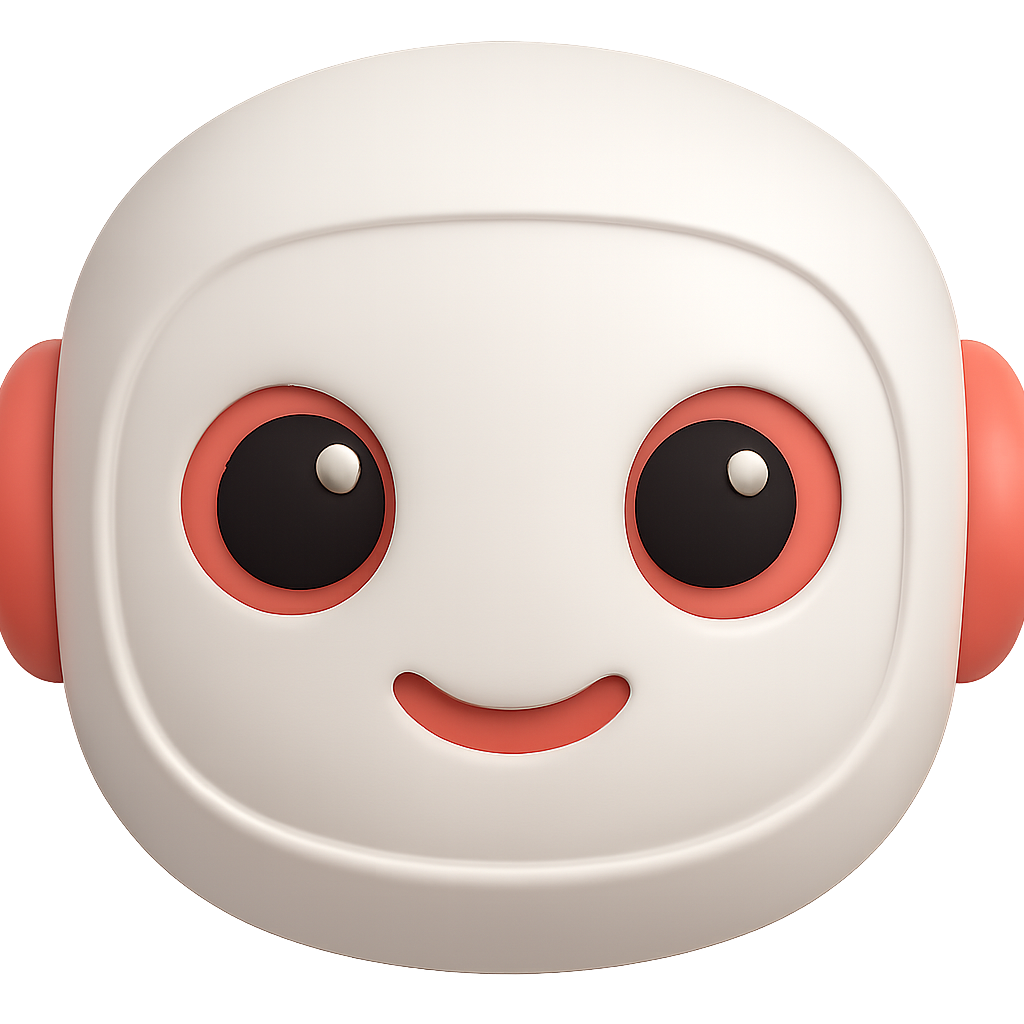
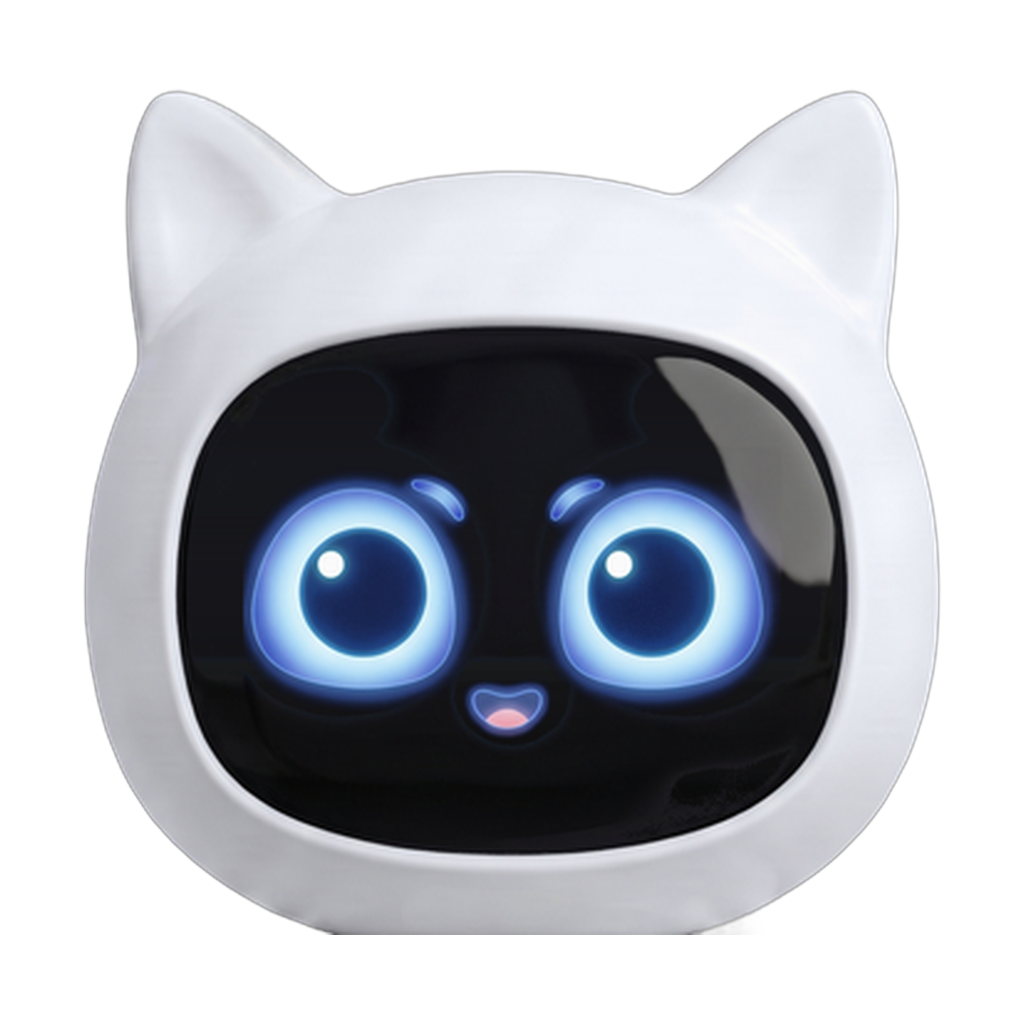
feat(mascot): black-face alive robot is the one true TeeBot (assets + Robot component)
- tee-head/tee-body/tee-icon replaced in place with the white cat-eared
  robot with the black LCD face (user pick 2026-07-04, supersedes K2
  ceramic-inset). Master art: TbotREAL docs/lesson-library/assets/
  robot-alive/poses (8 transparent 515x768 poses).
- Robot component now renders one photographic pose per emotion
  (idle/wave/celebrate/listening/teach/thinking/cards/side) instead of
  the drawn SVG robot; keeps emotion/size/reduceMotion API, Reanimated
  bob/tilt body motion, glow, and zzz.
- Level/Unit screens vary their emotion so adjacent pages show
  different poses.
- App icon set (all 12 sizes), brand logo, legacy design-reference
  robot-head/map-robot, and course-tile robot-coding regenerated from
  the same art, centered by alpha-thresholded bbox (>24) — raw getbbox
  centered stray invisible pixels and pushed the head bottom-right.

diff --git a/src/design-system/components/Robot/index.tsx b/src/design-system/components/Robot/index.tsx
@@ -1,5 +1,5 @@
 import React, { useEffect } from 'react';
-import { StyleSheet, View } from 'react-native';
+import { type ImageSourcePropType, View } from 'react-native';
 import Animated, {
   useSharedValue,
   useAnimatedStyle,
@@ -8,7 +8,6 @@ import Animated, {
   withTiming,
   Easing,
 } from 'react-native-reanimated';
-import Svg, { Path } from 'react-native-svg';
 import { tokens } from '@/design-system/tokens';
 import { Text } from '@/design-system/primitives/Text';
 
@@ -22,32 +21,39 @@ type RobotEmotion = typeof ROBOT_EMOTES[number];
 interface RobotConfig {
   bodyAnim: 'bob' | 'bobStrong' | 'tilt' | 'think' | 'none';
   bobDuration?: number;
-  mouth: 'smile-soft' | 'smile' | 'open-smile' | 'tiny' | 'talk' | 'big-smile' | 'tiny-o' | 'frown-soft' | 'flat';
-  eyes: 'open' | 'up' | 'happy' | 'gentle' | 'curious' | 'closed';
-  cheek: boolean;
-  antennaAnim: boolean;
-  antennaDuration?: number;
   glow: 'on' | 'soft' | 'off';
-  wave?: boolean;
-  dots?: boolean;
-  sparks?: boolean;
   zzz?: boolean;
-  ear?: boolean;
+  pose: ImageSourcePropType;
 }
 
+// The white cat-eared TeeBot with the black LCD face (source of truth per
+// 2026-07-04 direction; master art lives in TbotREAL
+// docs/lesson-library/assets/robot-alive/poses). One photographic pose per
+// emotion so different screens naturally show different robot pictures.
+const POSES = {
+  idle: require('../../../assets/mascot/alive-idle.png') as ImageSourcePropType,
+  wave: require('../../../assets/mascot/alive-wave.png') as ImageSourcePropType,
+  celebrate: require('../../../assets/mascot/alive-celebrate.png') as ImageSourcePropType,
+  listening: require('../../../assets/mascot/alive-listening.png') as ImageSourcePropType,
+  teach: require('../../../assets/mascot/alive-teach.png') as ImageSourcePropType,
+  thinking: require('../../../assets/mascot/alive-thinking.png') as ImageSourcePropType,
+  cards: require('../../../assets/mascot/alive-cards.png') as ImageSourcePropType,
+  side: require('../../../assets/mascot/alive-side.png') as ImageSourcePropType,
+} as const;
+
 const CONFIGS: Record<RobotEmotion, RobotConfig> = {
-  idle:    { bodyAnim: 'bob',       bobDuration: 3600, mouth: 'smile-soft', eyes: 'open',    cheek: true,  antennaAnim: false,                           glow: 'soft' },
-  happy:   { bodyAnim: 'bob',       bobDuration: 2400, mouth: 'smile',      eyes: 'open',    cheek: true,  antennaAnim: true,  antennaDuration: 2000,    glow: 'soft' },
-  greet:   { bodyAnim: 'bobStrong',                    mouth: 'open-smile', eyes: 'open',    cheek: true,  antennaAnim: true,  antennaDuration: 1400,    glow: 'on',   wave: true },
-  listen:  { bodyAnim: 'tilt',                         mouth: 'tiny',       eyes: 'open',    cheek: false, antennaAnim: true,  antennaDuration: 1800,    glow: 'on',   ear: true },
-  think:   { bodyAnim: 'think',                        mouth: 'tiny',       eyes: 'up',      cheek: false, antennaAnim: false,                           glow: 'on',   dots: true },
-  speak:   { bodyAnim: 'bob',       bobDuration: 2000, mouth: 'talk',       eyes: 'open',    cheek: true,  antennaAnim: true,  antennaDuration: 1600,    glow: 'on' },
-  success: { bodyAnim: 'bobStrong',                    mouth: 'big-smile',  eyes: 'happy',   cheek: true,  antennaAnim: true,  antennaDuration: 800,     glow: 'on',   sparks: true },
-  gentle:  { bodyAnim: 'bob',       bobDuration: 3000, mouth: 'smile-soft', eyes: 'gentle',  cheek: true,  antennaAnim: false,                           glow: 'soft' },
-  curious: { bodyAnim: 'tilt',                         mouth: 'tiny-o',     eyes: 'curious', cheek: true,  antennaAnim: true,  antennaDuration: 2000,    glow: 'soft' },
-  sleep:   { bodyAnim: 'bob',       bobDuration: 5000, mouth: 'smile-soft', eyes: 'closed',  cheek: false, antennaAnim: false,                           glow: 'off',  zzz: true },
-  sad:     { bodyAnim: 'none',                         mouth: 'frown-soft', eyes: 'gentle',  cheek: false, antennaAnim: false,                           glow: 'off' },
-  worry:   { bodyAnim: 'tilt',                         mouth: 'flat',       eyes: 'gentle',  cheek: false, antennaAnim: false,                           glow: 'soft' },
+  idle:    { bodyAnim: 'bob',       bobDuration: 3600, glow: 'soft', pose: POSES.idle },
+  happy:   { bodyAnim: 'bob',       bobDuration: 2400, glow: 'soft', pose: POSES.celebrate },
+  greet:   { bodyAnim: 'bobStrong',                    glow: 'on',   pose: POSES.wave },
+  listen:  { bodyAnim: 'tilt',                         glow: 'on',   pose: POSES.listening },
+  think:   { bodyAnim: 'think',                        glow: 'on',   pose: POSES.thinking },
+  speak:   { bodyAnim: 'bob',       bobDuration: 2000, glow: 'on',   pose: POSES.teach },
+  success: { bodyAnim: 'bobStrong',                    glow: 'on',   pose: POSES.celebrate },
+  gentle:  { bodyAnim: 'bob',       bobDuration: 3000, glow: 'soft', pose: POSES.idle },
+  curious: { bodyAnim: 'tilt',                         glow: 'soft', pose: POSES.cards },
+  sleep:   { bodyAnim: 'bob',       bobDuration: 5000, glow: 'off',  pose: POSES.side, zzz: true },
+  sad:     { bodyAnim: 'none',                         glow: 'off',  pose: POSES.thinking },
+  worry:   { bodyAnim: 'tilt',                         glow: 'soft', pose: POSES.thinking },
 };
 
 interface RobotProps {
@@ -59,20 +65,15 @@ interface RobotProps {
   reduceMotion?: boolean;
 }
 
-export default function Robot({ emotion = 'idle', size = 220, color, accessibilityLabel, reduceMotion = false }: RobotProps) {
+export default function Robot({ emotion = 'idle', size = 220, accessibilityLabel, reduceMotion = false }: RobotProps) {
   const cfg = CONFIGS[emotion] ?? CONFIGS.idle;
   const W = size;
-  const bodyColor = color ?? tokens.colors.bot.body;
-  const bodyDark = tokens.colors.bot.body2;
-  // Brand consistency: the robot is always the coral TeeBot character. We ignore the
-  // per-screen `accent` prop so every screen shows one coral robot that matches the
-  // welcome hero (robot-head.png) instead of a different colour per screen.
+  // Brand consistency: every screen shows the one white cat-eared TeeBot, so
+  // the per-screen `accent`/`color` props only tint the ambient glow.
   const accentColor = tokens.colors.coral;
 
-  // Body animation
   const bodyY = useSharedValue(0);
   const bodyRotate = useSharedValue(0);
-  const antennaRotate = useSharedValue(0);
   const glowScale = useSharedValue(1);
   const glowOpacity = useSharedValue(cfg.glow === 'on' ? 0.45 : 0.25);
 
@@ -82,7 +83,6 @@ export default function Robot({ emotion = 'idle', size = 220, color, accessibili
 
     bodyY.value = 0;
     bodyRotate.value = 0;
-    antennaRotate.value = 0;
 
     if (reduceMotion) {
       glowOpacity.value = cfg.glow === 'on' ? 0.45 : 0.25;
@@ -116,14 +116,6 @@ export default function Robot({ emotion = 'idle', size = 220, color, accessibili
       ), -1, false);
     }
 
-    if (cfg.antennaAnim && cfg.antennaDuration) {
-      const aDur = cfg.antennaDuration;
-      antennaRotate.value = withRepeat(withSequence(
-        withTiming(-4, { duration: aDur / 2, easing: easeIO }),
-        withTiming(4, { duration: aDur / 2, easing: easeIO }),
-      ), -1, false);
-    }
-
     if (cfg.glow !== 'off') {
       const glowDur = cfg.glow === 'on' ? 2400 : 4000;
       glowScale.value = withRepeat(withSequence(
@@ -135,7 +127,7 @@ export default function Robot({ emotion = 'idle', size = 220, color, accessibili
         withTiming(cfg.glow === 'on' ? 0.45 : 0.25, { duration: glowDur / 2, easing: easeIO }),
       ), -1, false);
     }
-    // eslint-disable-next-line react-hooks/exhaustive-deps -- animation re-runs only on emotion change; cfg derives from emotion and shared values are stable refs
+    // eslint-disable-next-line react-hooks/exhaustive-deps -- animation re-runs only on emotion/reduceMotion change; cfg derives from emotion and shared values are stable refs
   }, [emotion, reduceMotion]);
 
   const bodyStyle = useAnimatedStyle(() => ({
@@ -145,17 +137,10 @@ export default function Robot({ emotion = 'idle', size = 220, color, accessibili
     ],
   }));
 
-  const antennaStyle = useAnimatedStyle(() => ({
-    transform: [{ rotate: `${antennaRotate.value}deg` }],
-  }));
-
   const glowStyle = useAnimatedStyle(() => ({
     transform: [{ scale: glowScale.value }],
     opacity: glowOpacity.value,
   }));
-
-  const headW = W * 0.78;
-  const headH = W * 0.86;
 
   return (
     <View
@@ -186,207 +171,15 @@ export default function Robot({ emotion = 'idle', size = 220, color, accessibili
         </View>
       ))}
 
-      <Animated.View
+      <Animated.Image
+        source={cfg.pose}
+        resizeMode="contain"
+        accessibilityIgnoresInvertColors
         style={[
-          {
-            position: 'relative',
-            width: headW,
-            height: headH,
-          },
+          { width: W, height: W * 1.05 },
           bodyStyle,
         ]}
-      >
-        {/* antenna */}
-        <Animated.View
-          style={[
-            {
-              position: 'absolute',
-              left: headW / 2 - 2,
-              top: -W * 0.04,
-              alignItems: 'center',
-            },
-            antennaStyle,
-          ]}
-        >
-          <View style={{ width: 4, height: W * 0.13, backgroundColor: bodyDark, borderRadius: 2 }} />
-          <View
-            style={{
-              width: W * 0.13,
-              height: W * 0.13,
-              borderRadius: W * 0.065,
-              backgroundColor: accentColor,
-              marginTop: -W * 0.02,
-            }}
-          />
-        </Animated.View>
-
-        {/* head */}
-        <View
-          style={{
-            position: 'absolute',
-            top: W * 0.08,
-            left: 0,
-            right: 0,
-            height: W * 0.78,
-            borderRadius: headW * 0.46,
-            backgroundColor: bodyColor,
-            ...tokens.shadows.card,
-          }}
-        >
-          {/* Coral ears: always on, matching the TeeBot welcome robot. */}
-          {[0, 1].map(i => (
-            <View
-              key={i}
-              style={{
-                position: 'absolute',
-                top: '36%',
-                ...(i ? { right: -W * 0.085 } : { left: -W * 0.085 }),
-                width: W * 0.17,
-                height: W * 0.22,
-                borderRadius: W * 0.085,
-                backgroundColor: accentColor,
-              }}
-            />
-          ))}
-
-          {/* eyes */}
-          <Eyes look={cfg.eyes} W={W} />
-
-          {/* cheeks */}
-          {cfg.cheek && (
-            <>
-              <View style={[styles.cheek, { top: '56%', left: '18%' }]} />
-              <View style={[styles.cheek, { top: '56%', right: '18%' }]} />
-            </>
-          )}
-
-          {/* mouth */}
-          <Mouth kind={cfg.mouth} W={W} />
-
-          {/* thinking dots */}
-          {cfg.dots && (
-            <View style={{ position: 'absolute', right: -W * 0.2, top: '8%', flexDirection: 'row', gap: 4, padding: 8, paddingHorizontal: 12, backgroundColor: '#fff', borderRadius: 14, ...tokens.shadows.card }}>
-              {[0, 1, 2].map(i => (
-                <View key={i} style={{ width: 8, height: 8, borderRadius: 4, backgroundColor: tokens.colors.inkSoft }} />
-              ))}
-            </View>
-          )}
-        </View>
-
-        {/* arm wave */}
-        {cfg.wave && (
-          <View
-            style={{
-              position: 'absolute',
-              right: -W * 0.1,
-              top: W * 0.35,
-              width: W * 0.22,
-              height: W * 0.1,
-              borderRadius: 999,
-              backgroundColor: bodyDark,
-            }}
-          />
-        )}
-      </Animated.View>
+      />
     </View>
   );
 }
-
-function Eyes({ look, W }: { look: RobotConfig['eyes']; W: number }) {
-  const eyeBase: import('react-native').ViewStyle = {
-    position: 'absolute',
-    top: '34%',
-    width: W * 0.13,
-    height: W * 0.16,
-    borderRadius: W * 0.08,
-    backgroundColor: tokens.colors.bot.eye,
-  };
-
-  if (look === 'closed' || look === 'happy') {
-    return (
-      <Svg style={{ position: 'absolute', top: '38%', left: 0, right: 0 }} width={W * 0.78} height={W * 0.13}>
-        <Path d={look === 'closed' ? 'M 5 8 Q 15 2 25 8' : 'M 5 12 Q 15 2 25 12'} stroke={tokens.colors.bot.eye} strokeWidth={3} fill="none" strokeLinecap="round" />
-        <Path d={look === 'closed' ? 'M 35 8 Q 45 2 55 8' : 'M 35 12 Q 45 2 55 12'} stroke={tokens.colors.bot.eye} strokeWidth={3} fill="none" strokeLinecap="round" />
-      </Svg>
-    );
-  }
-  if (look === 'up') {
-    return (
-      <>
-        <View style={[eyeBase, { left: '22%', top: '28%' }]} />
-        <View style={[eyeBase, { right: '22%', top: '28%' }]} />
-      </>
-    );
-  }
-  if (look === 'gentle') {
-    return (
-      <>
-        <View style={[eyeBase, { left: '22%', width: W * 0.11, height: W * 0.13 }]} />
-        <View style={[eyeBase, { right: '22%', width: W * 0.11, height: W * 0.13 }]} />
-      </>
-    );
-  }
-  if (look === 'curious') {
-    return (
-      <>
-        <View style={[eyeBase, { left: '20%', width: W * 0.14, height: W * 0.18 }]} />
-        <View style={[eyeBase, { right: '20%', width: W * 0.14, height: W * 0.18 }]} />
-      </>
-    );
-  }
-  return (
-    <>
-      <View style={[eyeBase, { left: '22%' }]} />
-      <View style={[eyeBase, { right: '22%' }]} />
-    </>
-  );
-}
-
-function Mouth({ kind, W }: { kind: RobotConfig['mouth']; W: number }) {
-  // Coral smile to match the welcome robot (robot-head.png).
-  const mouthColor = tokens.colors.coral;
-  const mouthW = W * 0.38;
-  const mouthBase: import('react-native').ViewStyle = {
-    position: 'absolute',
-    bottom: '20%',
-    left: '31%',
-    width: mouthW,
-    height: W * 0.06,
-    borderRadius: 999,
-  };
-
-  if (kind === 'smile' || kind === 'smile-soft' || kind === 'open-smile' || kind === 'big-smile') {
-    return (
-      <View style={[mouthBase, { backgroundColor: mouthColor, height: W * 0.07, borderTopLeftRadius: 0, borderTopRightRadius: 0 }]} />
-    );
-  }
-  if (kind === 'talk') {
-    return (
-      <View style={[mouthBase, { backgroundColor: mouthColor, height: W * 0.09 }]} />
-    );
-  }
-  if (kind === 'tiny' || kind === 'tiny-o') {
-    return (
-      <View style={[mouthBase, { width: W * 0.12, left: '44%', height: W * 0.06, backgroundColor: mouthColor }]} />
-    );
-  }
-  if (kind === 'frown-soft') {
-    return (
-      <View style={[mouthBase, { backgroundColor: mouthColor, borderTopLeftRadius: 999, borderTopRightRadius: 999, borderBottomLeftRadius: 0, borderBottomRightRadius: 0 }]} />
-    );
-  }
-  return (
-    <View style={[mouthBase, { backgroundColor: mouthColor, height: W * 0.04 }]} />
-  );
-}
-
-const styles = StyleSheet.create({
-  cheek: {
-    position: 'absolute',
-    width: 22,
-    height: 14,
-    borderRadius: 999,
-    backgroundColor: tokens.colors.bot.cheek,
-    opacity: 0.7,
-  },
-});

diff --git a/src/features/course/screens/LevelScreen.tsx b/src/features/course/screens/LevelScreen.tsx
@@ -69,7 +69,7 @@ export default function LevelScreen({ navigation }: Props) {
       />
 
       <Box paddingHorizontal={24} paddingBottom={14} flexDirection="row" alignItems="center" gap={12}>
-        <Robot emotion="happy" size={80} />
+        <Robot emotion="idle" size={80} />
         <Box style={styles.bubble} flex={1}>
           <Text fontWeight="700" style={styles.bubbleText}>You're on Unit 3 — let's go!</Text>
         </Box>

diff --git a/src/features/course/screens/UnitScreen.tsx b/src/features/course/screens/UnitScreen.tsx
@@ -42,7 +42,7 @@ export default function UnitScreen({ navigation }: Props) {
               <Box style={styles.chipSky}><Text fontWeight="700" style={styles.chipSkyText}>2 phrases</Text></Box>
             </Box>
           </Box>
-          <Robot emotion="happy" size={86} />
+          <Robot emotion="speak" size={86} />
         </Box>
       </Box>
 
